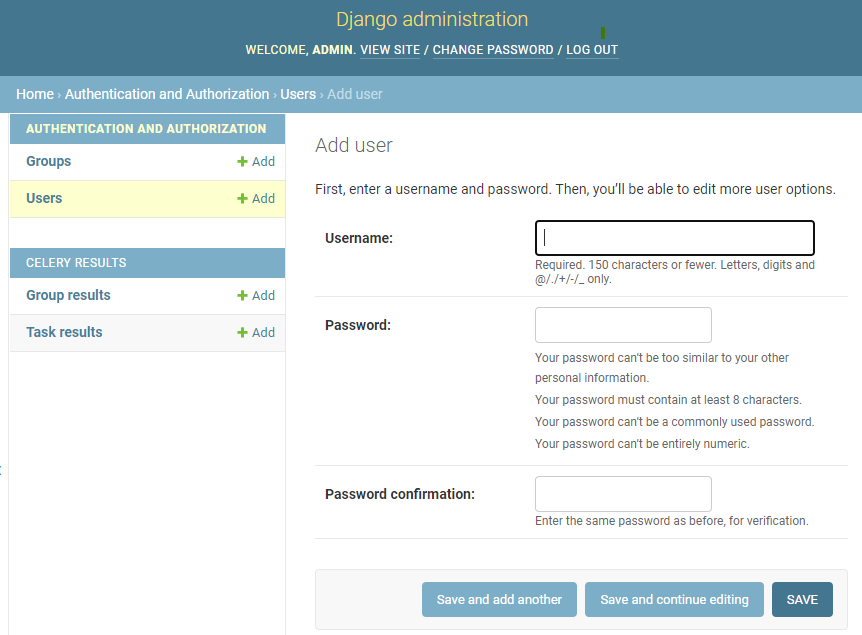
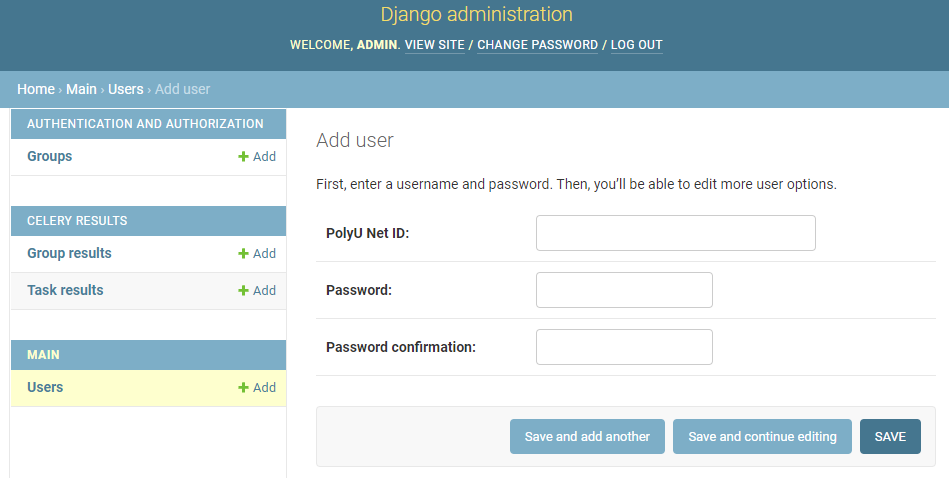
update django setup

diff --git a/chatbot_demo/main/models.py b/chatbot_demo/main/models.py
@@ -50,7 +50,7 @@ class UserManager(BaseUserManager):
 
 
 class User(AbstractBaseUser, PermissionsMixin):
-    netid = models.CharField(_('polyu Net ID'), max_length=30, unique=True)
+    netid = models.CharField(_('polyU Net ID'), max_length=30, unique=True)
     first_name = models.CharField(_('first name'), max_length=30, blank=True)
     last_name = models.CharField(_('last name'), max_length=30, blank=True)
     is_staff = models.BooleanField(

diff --git a/documentation/setup_django.md b/documentation/setup_django.md
@@ -6,12 +6,13 @@
     ```shell
     docker-compose up -d --build django
     ```
-    Then the database will be created together with user defined as `MYSQL_USER`.
+    Then the database will be created together with the user defined by `MYSQL_USER`.
 
     Stop Django and move to next step.
     ```shell
     docker-compose stop django
     ```
+
 
 2. Grant privilege to db user
     
@@ -19,20 +20,23 @@
    
    ![dba_role](img/dba.png)
    
+
 3. Create superuser for django server
 
    ```shell
    cd chatbot_demo
-   ./manage_cli.py createsuperuser
+   ./manage_cli.sh createsuperuser
    
    # Run test if needed
-   ./manage_cli.py test tasks.tests
+   ./manage_cli.sh test tasks.tests
+   ./manage_cli.sh test main.tests.test_login
    
    # After creating superuser successfully
    cd ../
    docker-compose up -d --build django
    ```
-   Login `http://localhost:8899/admin/` with `username=admin` and `password=admin`
+   Login [admin_page](http://localhost:8899/admin/) with `PolyU Net ID=admin` and `Password=admin`
+
 
 4. Add User Group
    
@@ -50,7 +54,7 @@
    
    Add staff
    ![add_staff](img/add_staff.png)
-
+   
    Assign user group (assign rights)
    ![assign_groups.png](img/assign_groups.png)
    
